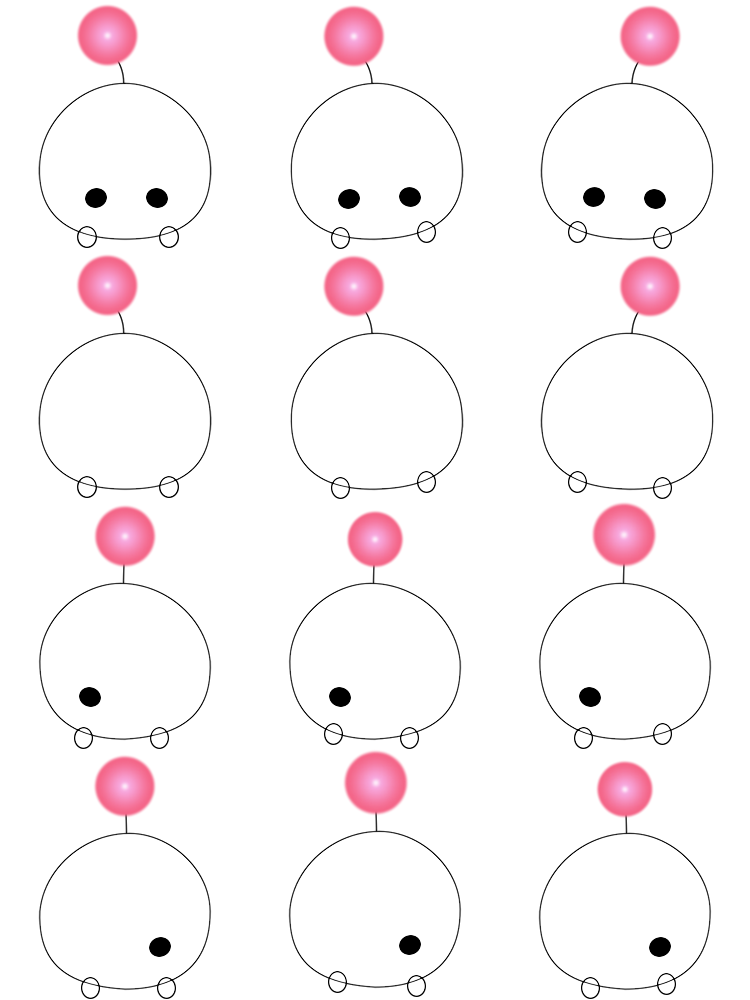
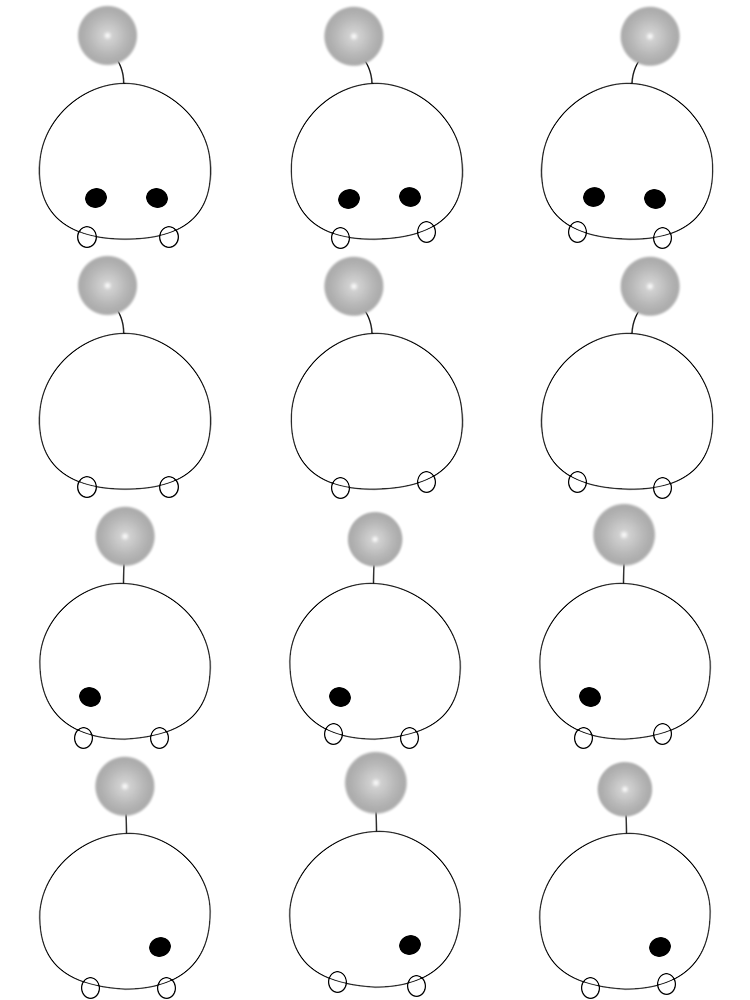
セレクトシーンに色を反映

diff --git a/Classes/TitleSelectScene.cpp b/Classes/TitleSelectScene.cpp
@@ -28,6 +28,14 @@ TitleSelectScene* TitleSelectScene::createSelectScene()
 	return scene;
 }
 
+TitleSelectScene* TitleSelectScene::createSelectScene(Color4F color)
+{
+	TitleSelectScene* scene = TitleSelectScene::create();
+	auto layer = SelectLayer::create(color);
+	scene->addChild(layer);
+	return scene;
+}
+
 void TitleSelectScene::replaceTitle()
 {
 	for (auto c : getChildren())
@@ -49,24 +57,6 @@ void TitleSelectScene::replaceSelect()
 		{
 			_layer = c;
 			replace();
-			//auto flg0 = CallFunc::create([&]() {
-			//	_replacedLayer = true;
-			//});
-			//auto fadeIn = FadeIn::create(0.5f);
-			//auto callFunc = CallFunc::create([&]() {
-			//	this->removeChild(_layer, true);
-			//	//c->removeFromParent();
-			//	auto scene = SelectLayer::create();
-			//	this->addChild(scene);
-			//});
-			//auto fadeOut = FadeOut::create(0.5f);
-			//auto flg1 = CallFunc::create([&]() {
-			//	_replacedLayer = false;
-			//});
-			//auto seq = Sequence::create(flg0, fadeIn, callFunc, fadeOut, flg1, NULL);
-			//Sprite* sp = Sprite::create();
-			//sp = createFadeRect(sp);
-			//sp->runAction(seq);
 			break;
 		}
 	}	

diff --git a/Classes/SelectBackground.cpp b/Classes/SelectBackground.cpp
@@ -3,10 +3,10 @@
 
 using namespace cocos2d;
 
-SelectBackground* SelectBackground::create()
+SelectBackground* SelectBackground::create(Color4F color)
 {
 	SelectBackground* pRet = new SelectBackground();
-	if (pRet && pRet->init())
+	if (pRet && pRet->init(color))
 	{
 		pRet->autorelease();
 		return pRet;
@@ -19,7 +19,7 @@ SelectBackground* SelectBackground::create()
 	}
 }
 
-bool SelectBackground::init()
+bool SelectBackground::init(Color4F color)
 {
 	if (!Node::init()) return false;
 
@@ -28,6 +28,7 @@ bool SelectBackground::init()
 	ParticleSystemQuad* p = ParticleSystemQuad::create("Select/SelectBack.plist");
 	p->setPosition(designResolutionSize*0.5f);
 	p->setPosVar(designResolutionSize*0.5f);
+	p->setStartColor(color);
 	p->setEmissionRate(0.00010417 * (designResolutionSize.width*designResolutionSize.height));
 	this->addChild(p);
 

diff --git a/Classes/TitleCharacter.cpp b/Classes/TitleCharacter.cpp
@@ -7,7 +7,7 @@ bool TitleCharacter::init()
 {
 	if (!Sprite::init()) return false;
 
-	_charAnim = CharacterAnimation::create("Character/TitleAnimG.png", Size(250, 250), 0.3f);
+	_charAnim = CharacterAnimation::create("Character/TitleAnim.png", Size(250, 250), 0.3f);
 	this->addChild(_charAnim);
 	_charAnim->changeAnimation(DIR::RIGHT);
 	_state = eSTATE::MOVE;

diff --git a/Classes/TitleSelectScene.h b/Classes/TitleSelectScene.h
@@ -9,6 +9,7 @@ class TitleSelectScene : public cocos2d::Scene
 {
 public:
 	static TitleSelectScene* createSelectScene();
+	static TitleSelectScene* createSelectScene(cocos2d::Color4F color);
 	static TitleSelectScene* createTitleScene();
 	bool init();
 	CREATE_FUNC(TitleSelectScene);

diff --git a/Classes/SelectBackground.h b/Classes/SelectBackground.h
@@ -6,8 +6,8 @@
 class SelectBackground : public cocos2d::Node
 {
 public:
-	static SelectBackground* create();
-	bool init();
+	static SelectBackground* create(cocos2d::Color4F color = cocos2d::Color4F::WHITE);
+	bool init(cocos2d::Color4F color);
 };
 
 #endif

diff --git a/Classes/SelectLayer.h b/Classes/SelectLayer.h
@@ -7,7 +7,11 @@ class SelectLayer : public cocos2d::Layer
 {
 public:
 	bool init();
+	bool init(cocos2d::Color4F color);
 	static SelectLayer* create();
+	static SelectLayer* create(cocos2d::Color4F color);
+
+	cocos2d::DrawNode* _dot;
 };
 
 #endif

diff --git a/Classes/PictureManager.h b/Classes/PictureManager.h
@@ -42,6 +42,7 @@ private:
 	void popedUpSize();
 	void selectedInit();
 	void touchIDInit();
+	void replaceScene();
 
 	enum class eTOUCH
 	{
